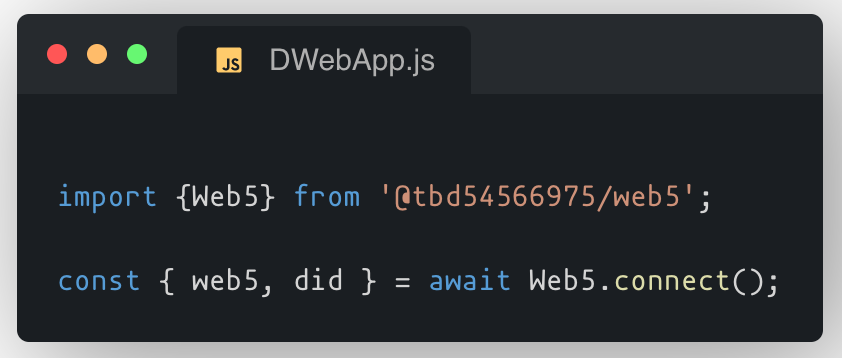
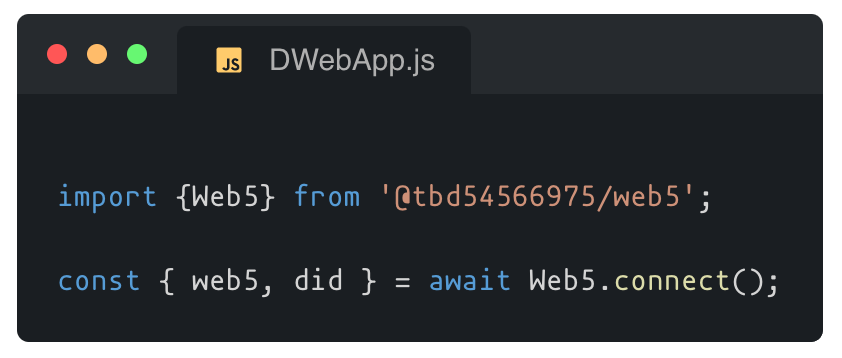
removed drop shaddow from image and adjusted positioning

Changed region(s): [[0.0, 0.0, 1.0, 1.0]]

diff --git a/docs/docs-index.js b/docs/docs-index.js
@@ -21,7 +21,7 @@ function DocsIndex() {
           buttonUrl="/docs/web5/quickstart"
           buttonText="Quickstart 🚀"
           imgSrc="/img/docs-web5-code-connect.png"
-          imgClass="w-[50%]"
+          imgClass="w-[50%] bottom-[1vh]"
           bodyText="An interactive guide to get started with Web5"
           themeColor="yellow"
           primary
